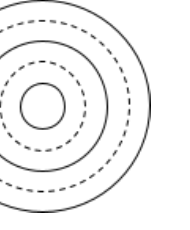
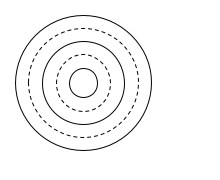
Fix figure crops and add auto compact toggle

Changed region(s): [[0.0, 0.0, 0.8158, 0.9444], [0.2368, 0.4167, 0.2632, 0.5], [0.4474, 0.3333, 0.4737, 0.3611]]

diff --git a/app.js b/app.js
@@ -14,6 +14,7 @@ const docSidebar = document.querySelector("#doc-sidebar");
 const sidebarCollapse = document.querySelector("#sidebar-collapse");
 const outlineNav = document.querySelector("#outline-nav");
 const documentRoot = document.querySelector("#document-root");
+const autoCompactToggle = document.querySelector("#auto-compact-toggle");
 
 const chatBubble = document.querySelector("#chat-bubble");
 const selectionAction = document.querySelector("#selection-action");
@@ -72,6 +73,14 @@ const sectionHintMap = {
   "chapter-4-decibels": ["decibels", "log scale", "db", "sound level"],
   "chapter-5-moving-source": ["doppler formula", "moving source", "approaching source", "receding source"],
   "chapter-5-full-formula": ["moving observer", "full doppler formula", "observer moving"],
+  "chapter-5-worked-example": [
+    "ambulance problem",
+    "worked example ambulance",
+    "silas and eppie",
+    "silas",
+    "eppie",
+    "ambulance",
+  ],
   "chapter-6-superposition": ["superposition"],
   "chapter-6-phase-chart": ["phase chart", "phase difference", "delta phi"],
   "chapter-6-conditions": ["constructive interference", "destructive interference", "interference conditions"],
@@ -82,6 +91,7 @@ const settingsKey = "waves-study-chat-settings";
 const chatLayoutKey = "waves-study-chat-layout";
 const sidebarStateKey = "waves-study-sidebar-collapsed";
 const responseModeKey = "waves-study-response-mode";
+const autoCompactKey = "waves-study-auto-compact";
 const chatState = { messages: [] };
 const quizStates = new Map();
 const quizSessionLength = 5;
@@ -97,6 +107,7 @@ loadSettings();
 applySavedChatLayout();
 loadSidebarState();
 loadResponseMode();
+loadAutoCompactState();
 wireSectionAccordions();
 wireQuizSections();
 wireResponsivePanels();
@@ -191,7 +202,7 @@ function renderOutline() {
       if (!target) return;
 
       if (target.classList.contains("doc-section")) {
-        openExclusiveSection(target, true);
+        revealSection(target, true);
       } else {
         centerTarget(target);
       }
@@ -307,7 +318,7 @@ function wireSectionAccordions() {
         return;
       }
 
-      openExclusiveSection(section, false);
+      revealSection(section, false);
     });
   });
 }
@@ -384,6 +395,10 @@ function wireChatEvents() {
 
   chatSettingsToggle.addEventListener("click", () => {
     chatSettings.classList.toggle("is-hidden");
+  });
+
+  autoCompactToggle.addEventListener("change", () => {
+    localStorage.setItem(autoCompactKey, JSON.stringify({ enabled: autoCompactToggle.checked }));
   });
 
   providerSelect.addEventListener("change", () => {
@@ -602,6 +617,11 @@ function loadResponseMode() {
   setResponseMode(saved?.mode || "concise");
 }
 
+function loadAutoCompactState() {
+  const saved = safeJsonParse(localStorage.getItem(autoCompactKey));
+  autoCompactToggle.checked = saved?.enabled !== false;
+}
+
 function setResponseMode(mode) {
   const resolvedMode = mode === "explained" ? "explained" : "concise";
   modeButtons.forEach((button) => {
@@ -613,6 +633,24 @@ function setResponseMode(mode) {
 function getResponseMode() {
   const active = modeButtons.find((button) => button.classList.contains("is-active"));
   return active?.getAttribute("data-mode") || "concise";
+}
+
+function getAutoCompactState() {
+  return autoCompactToggle.checked;
+}
+
+function revealSection(targetSection, shouldCenter, forceExclusive = false) {
+  if (forceExclusive || getAutoCompactState()) {
+    openExclusiveSection(targetSection, shouldCenter);
+    return;
+  }
+
+  openSection(targetSection);
+  if (shouldCenter) {
+    requestAnimationFrame(() => {
+      centerTarget(targetSection);
+    });
+  }
 }
 
 function openExclusiveSection(targetSection, shouldCenter) {
@@ -732,7 +770,7 @@ function showInDocument(query) {
   const match = findBestSectionForQuery(query);
   if (!match?.section) return false;
 
-  openExclusiveSection(match.section, false);
+  revealSection(match.section, false);
   requestAnimationFrame(() => {
     const highlightTarget = highlightBestSnippet(match.section, query) || match.section;
     centerTarget(highlightTarget);
@@ -752,6 +790,7 @@ function findBestSectionForQuery(query) {
   const wantsWaveSpeed =
     /\bvelocity\b/.test(normalizedQuery) ||
     (/\b(wave speed|speed)\b/.test(normalizedQuery) && /\bwave\b/.test(normalizedQuery));
+  const wantsAmbulance = /\bambulance\b|\bsilas\b|\beppie\b/.test(normalizedQuery);
   const wantsDoppler = /\bdoppler\b/.test(normalizedQuery);
   const wantsDirection = /\b(minus sign|plus sign|direction|right moving|left moving)\b/.test(normalizedQuery);
   const wantsInterference =
@@ -803,6 +842,12 @@ function findBestSectionForQuery(query) {
       if (wantsDoppler) {
         if (record.id === "chapter-5-moving-source") score += 14;
         if (record.id === "chapter-5-full-formula") score += 12;
+      }
+
+      if (wantsAmbulance) {
+        if (record.id === "chapter-5-worked-example") score += 26;
+        if (record.id === "chapter-5-hook") score += 8;
+        if (record.id === "chapter-5-moving-source") score += 10;
       }
 
       if (wantsDirection && record.id === "chapter-2-direction") score += 18;
@@ -888,8 +933,10 @@ function highlightBestSnippet(section, query) {
 }
 
 function isExplicitShowRequest(question) {
-  return /(?:show me in the document|show me where|where does the document say|where does it say|take me to the document|open the section|open that section|open it|take me there|go to that part|show that part)/i.test(
-    question,
+  return (
+    /(?:show me in the document|show me where|where does the document say|where does it say|take me to the document|open the section|open that section|open it|take me there|go to that part|show that part)/i.test(
+      question,
+    ) || /^(?:open|show|go to|take me to)\b/i.test(question.trim())
   );
 }
 

diff --git a/styles.css b/styles.css
@@ -384,9 +384,36 @@ textarea:focus-visible {
   border-bottom: 1px solid var(--line);
 }
 
+.doc-paper-head-top {
+  display: flex;
+  align-items: flex-start;
+  justify-content: space-between;
+  gap: 16px;
+}
+
 .doc-paper-head h2 {
   font-size: clamp(2rem, 4vw, 3.3rem);
   line-height: 1.02;
+}
+
+.compact-toggle {
+  display: inline-flex;
+  align-items: center;
+  gap: 10px;
+  padding: 10px 14px;
+  border-radius: 999px;
+  background: rgba(95, 129, 195, 0.08);
+  color: var(--accent-deep);
+  font-size: 0.92rem;
+  font-weight: 600;
+  white-space: nowrap;
+}
+
+.compact-toggle input {
+  width: 16px;
+  height: 16px;
+  margin: 0;
+  accent-color: var(--accent-deep);
 }
 
 .doc-paper-head p:last-child {
@@ -1113,6 +1140,11 @@ textarea:focus-visible {
   .page-shell {
     width: min(calc(100% - 18px), var(--max));
     padding-top: 18px;
+  }
+
+  .doc-paper-head-top {
+    flex-direction: column;
+    align-items: flex-start;
   }
 
   .doc-paper {

diff --git a/index.html b/index.html
@@ -66,8 +66,16 @@
         <main class="doc-main">
           <article class="doc-paper">
             <header class="doc-paper-head">
-              <p class="section-label">Curriculum</p>
-              <h2>Read it like a real study document.</h2>
+              <div class="doc-paper-head-top">
+                <div>
+                  <p class="section-label">Curriculum</p>
+                  <h2>Read it like a real study document.</h2>
+                </div>
+                <label class="compact-toggle" for="auto-compact-toggle">
+                  <input id="auto-compact-toggle" type="checkbox" checked />
+                  <span>Auto compact</span>
+                </label>
+              </div>
               <p>
                 Every chapter is expanded in full, and each subsection is linkable from
                 the left-side outline.
